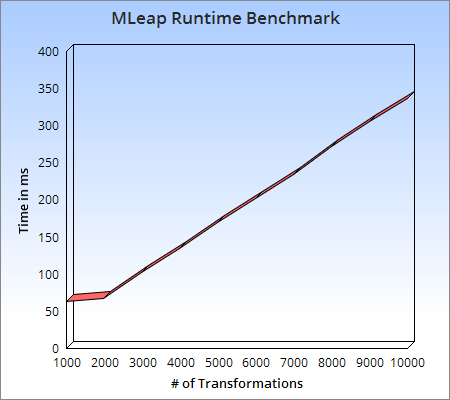
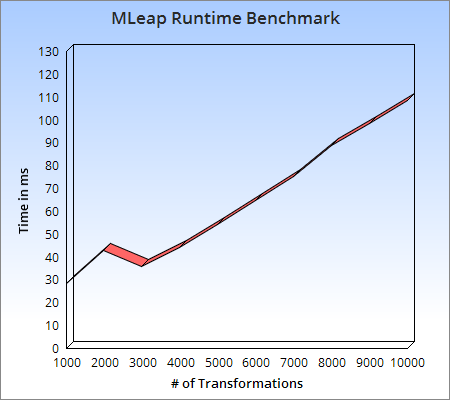
Update demo to work with latest serializer framework.

diff --git a/blog/mleap.md b/blog/mleap.md
@@ -71,7 +71,7 @@ gunzip /tmp/airbnb.csv.gz
 If you downloaded the sample dataset to `/tmp/airbnb.csv`, then run the command with these values:
 
 ```
-sbt "demo/run /tmp/airbnb.csv file:/tmp/mleap.transformer.json"
+sbt "demo/run /tmp/airbnb.csv file:/tmp/transformer.mleap"
 ```
 
 ## Deploy a JSON API Server
@@ -81,7 +81,7 @@ Next we will take the MLeap model and deploy it using our demo API server.
 ### Start the Demo API Server
 
 ```
-sbt "server/run /tmp/mleap.transformer.json"
+sbt "server/run /tmp/transformer.mleap"
 ```
 
 This will fire up a local server running on port 8080 that is ready to transform incoming LeapFrames. Let's try a sample CURL command. Download our sample `frame.json` file, we will send it to our server to transform and get the results back.
@@ -100,7 +100,7 @@ curl -v -XPOST \
 -d @/tmp/frame.json http://localhost:8080/transform
 ```
 
-And voilà, we have our transformed LeapFrame with our price prediction as the last value in the array. This transformation did not use a SparkContext, and we did not have to include any Spark libraries to make it happen. On average, the actual transformation time is about __.034ms__, with serialization/deserialization taking up the majority of time in our API server. If we were to take the simple approach of Kryo serializing our Spark pipeline then running it with a local SparkContext on our API server, average transformation time increases cramatically to __22ms__, which is not scalable.
+And voilà, we have our transformed LeapFrame with our price prediction as the last value in the array. This transformation did not use a SparkContext, and we did not have to include any Spark libraries to make it happen. On average, the actual transformation time is about __.011ms__, with serialization/deserialization taking up the majority of time in our API server. If we were to take the simple approach of Kryo serializing our Spark pipeline then running it with a local SparkContext on our API server, average transformation time increases to __22ms__. MLeap transformations currently execute around 2000x faster than out-of-the box Spark transformations for one-off requests.
 
 ## Benchmarks
 
